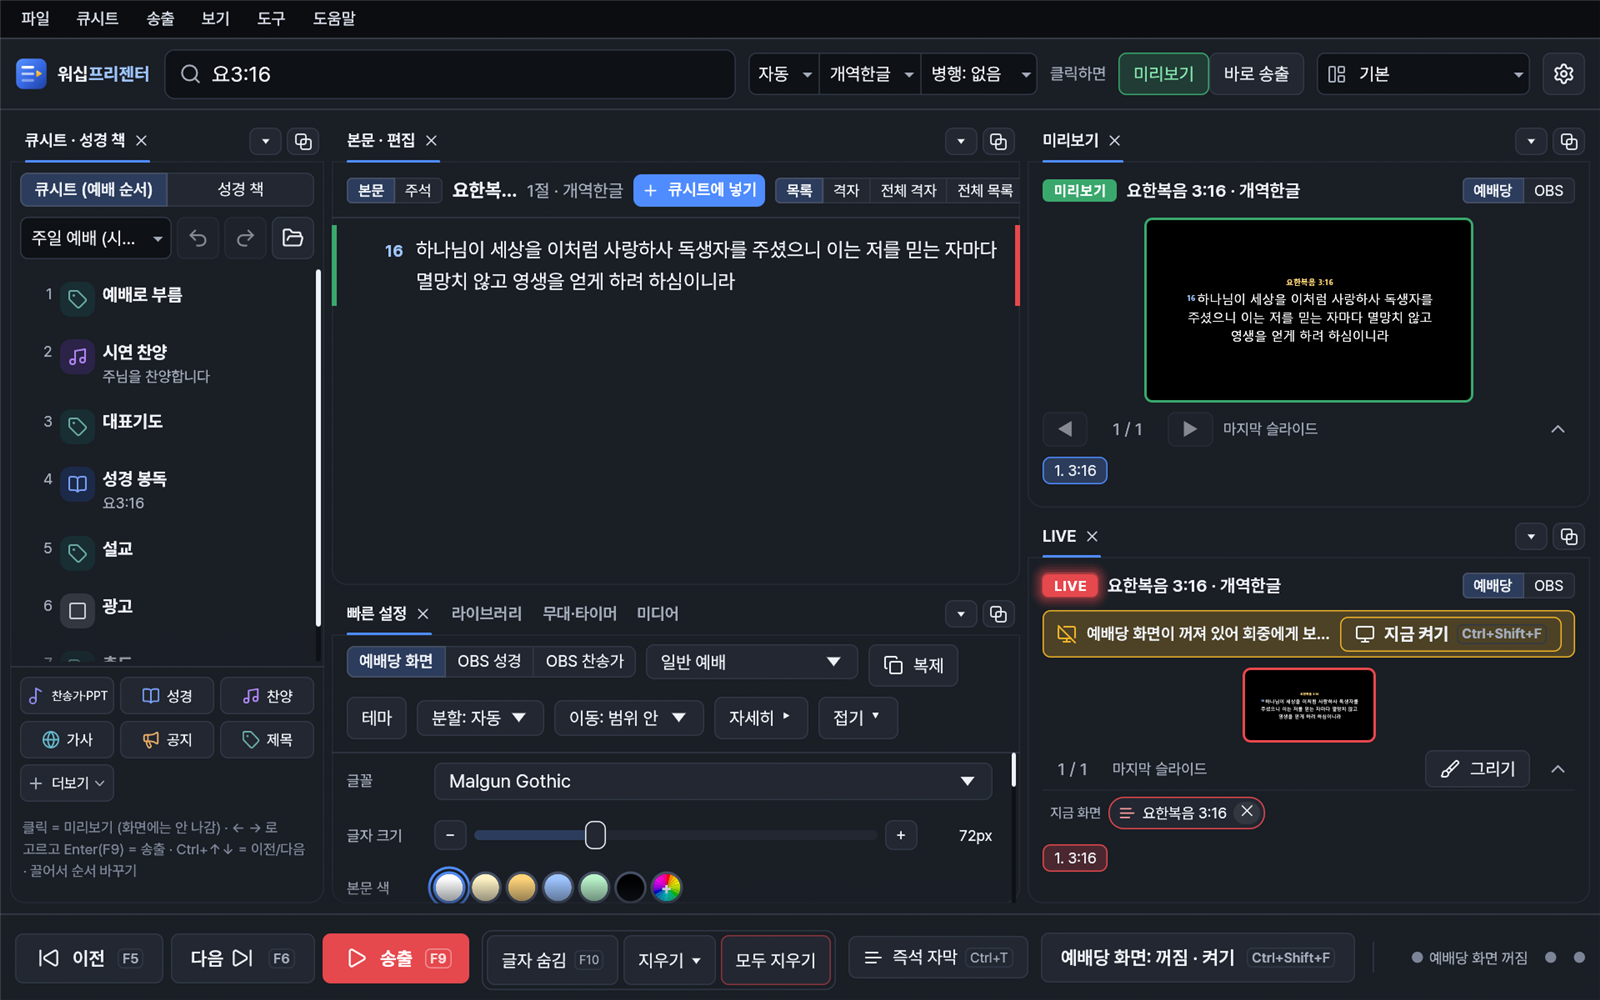
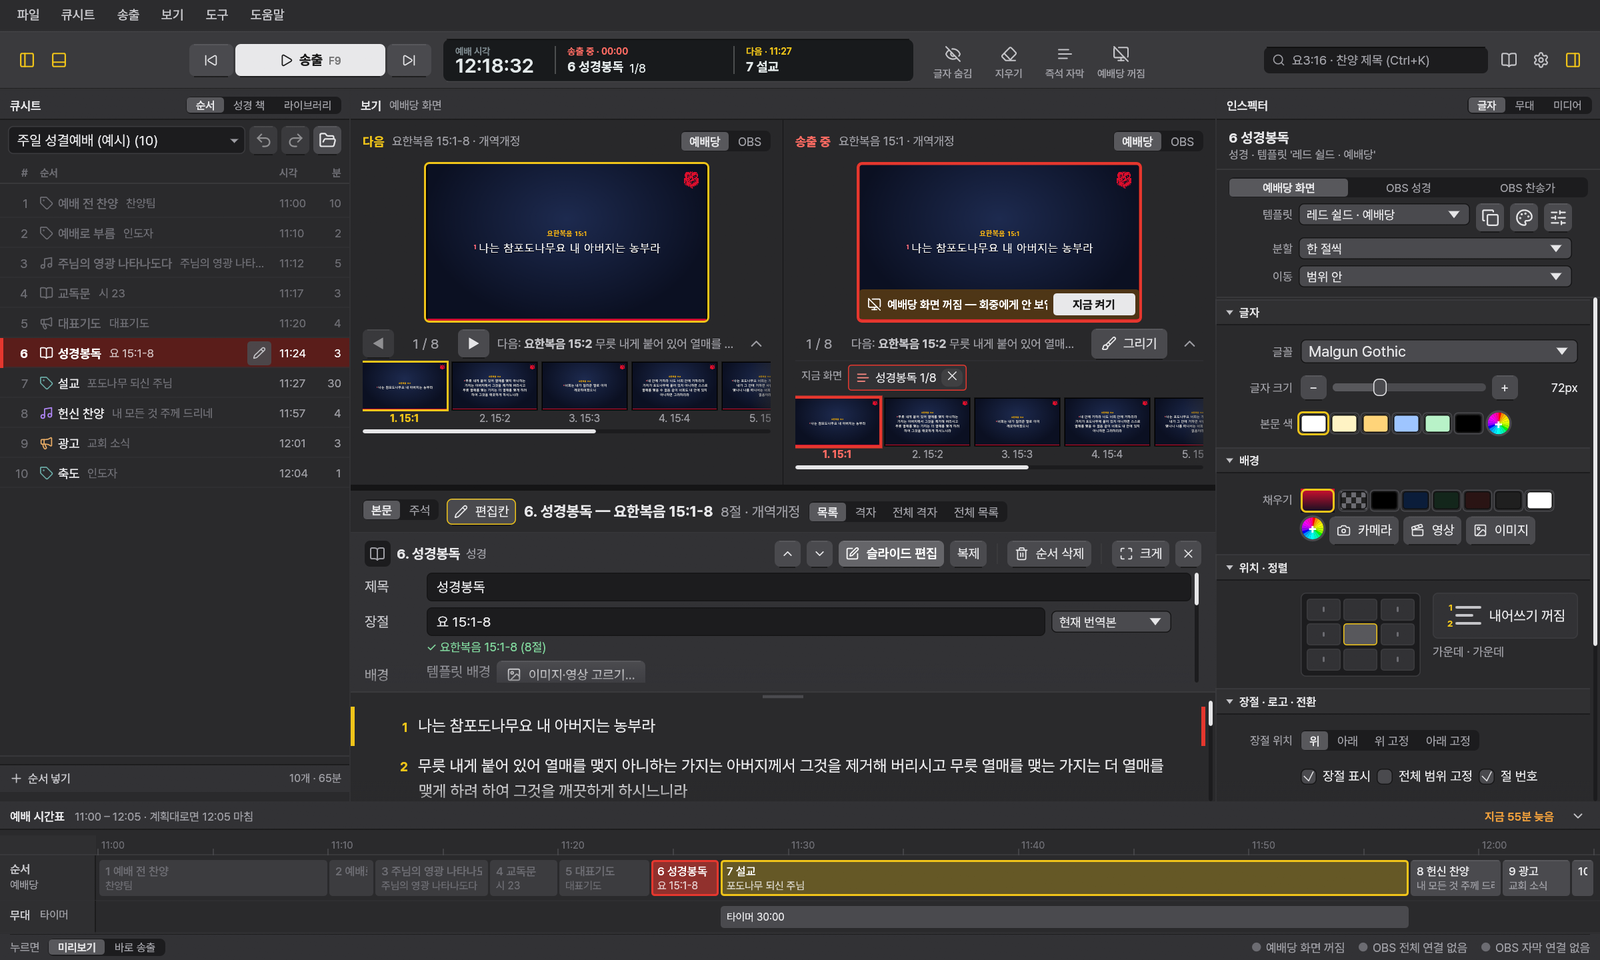
2.0.8 새 조작 화면: README 대표 그림 · 설명서 주 화면·컨트롤 막대 그림과 화면 구성·배치 설명
- readme-main.png · manual-main.png 를 2.0.8 화면(예시 큐시트)으로, manual-send-bar.png 는 위 컨트롤 막대로
- README '2.x에서 달라진 점' 맨 위에 2.0.8 화면 변경 안내, 빠른 설정 → 인스펙터, 작업공간 → 판 접기·펴기
- 설명서 2장 화면 구성 표 · 4-1 · 6장(화면 배치) · 7-1 을 새 자리로
- 아직 옛 모양 그림: 설정·템플릿·테마·단축키 창(색만 다름) · manual-quick-duplicate · 영어 README

diff --git a/docs/사용자설명서.md b/docs/사용자설명서.md
@@ -13,7 +13,7 @@
 3. [예배 준비: 큐시트 만들기](#3-예배-준비-큐시트-만들기)
 4. [예배 진행: 송출](#4-예배-진행-송출)
 5. [성경 검색과 슬라이드 나누기](#5-성경-검색과-슬라이드-나누기)
-6. [화면 배치와 작업공간](#6-화면-배치와-작업공간)
+6. [화면 배치 (판 접기·펴기)](#6-화면-배치-판-접기펴기)
 7. [출력 디자인: 템플릿과 테마](#7-출력-디자인-템플릿과-테마)
 8. [설정 센터와 단축키](#8-설정-센터와-단축키)
 9. [자료, 백업, 업데이트](#9-자료-백업-업데이트)
@@ -43,20 +43,19 @@
 
 ## 2. 화면 구성과 메뉴
 
-![조작 화면 전체: 왼쪽 큐시트, 가운데 본문과 빠른 설정, 오른쪽 미리보기와 LIVE](images/v2/manual-main.png)
+![조작 화면 전체 (2.0.8): 위 컨트롤 막대, 왼쪽 큐시트 표, 가운데 다음·송출 중 두 화면과 본문, 오른쪽 인스펙터, 아래 예배 시간표](images/v2/manual-main.png)
 
 | 위치 | 내용 |
 |---|---|
 | 맨 위 | 메뉴 줄: 파일 · 큐시트 · 송출 · 보기 · 도구 · 도움말 |
-| 위쪽 줄 | 검색창(Ctrl+K), 검색 방식(자동), 번역본, 병행 번역본, **클릭하면 [미리보기 / 바로 송출]**, 작업공간 선택, 설정(톱니바퀴) |
-| 왼쪽 | **큐시트 (예배 순서)** / **성경 책** 탭. 아래에 순서 넣기 단추(찬송가·PPT, 성경, 찬양, 가사, 공지, 제목, 더보기) |
-| 가운데 위 | **본문 · 편집**: 찾은 성경 본문이나 고른 순서의 슬라이드. 목록·격자·전체 격자·전체 목록으로 볼 수 있습니다 |
-| 가운데 아래 | **빠른 설정 · 라이브러리 · 무대·타이머 · 미디어** 탭 |
-| 오른쪽 위 | **미리보기** (초록 테두리): 송출하면 이렇게 나갑니다 |
-| 오른쪽 아래 | **LIVE** (빨간 테두리): 지금 실제로 나가는 화면. 예배당 화면이 꺼져 있으면 노란 안내와 [지금 켜기] 단추가 보입니다 |
-| 맨 아래 | 송출 줄: 이전(F5) · 다음(F6) · 송출(F9) · 글자 숨김(F10) · 지우기 ▾ · 모두 지우기 · 즉석 자막(Ctrl+T) · 예배당 화면: 꺼짐·켜기(Ctrl+Shift+F) · 출력 상태 |
+| 위쪽 막대 | 왼쪽 큐시트 판·시간표 접기 단추 · **[이전(F5) \| 송출(F9) \| 다음(F6)]** · **상태 표시창**(예배 시각 · 송출 중 순서와 경과 · 다음 순서와 예정 시각) · 글자 숨김(F10) · 지우기 ▾(배경 지우기 · 로고 화면 · 모두 지우기) · 즉석 자막(Ctrl+T) · 예배당 화면 켜기·끄기(Ctrl+Shift+F) · 검색창(Ctrl+K) · 검색 방식·번역본·병행 번역(책 아이콘) · 설정(톱니바퀴) · 인스펙터 접기 단추 |
+| 왼쪽 | **큐시트** 판: [순서 \| 성경 책 \| 라이브러리]. 순서는 표(# · 순서 · 시각 · 분)로 보이고, 아래 **+ 순서 넣기** 를 누르면 넣을 종류(찬송가·PPT, 성경, 찬양, 가사, 공지, 제목, 이미지, 영상, 유튜브, PDF, 음악, 슬라이드쇼, 카메라, 빈 화면 …)가 펼쳐집니다 |
+| 가운데 위 | **다음**(노란 테두리, 미리보기): 송출하면 이렇게 나갑니다 · **송출 중**(빨간 테두리): 지금 실제로 나가는 화면. 각 화면 아래 슬라이드 줄. 예배당 화면이 꺼져 있으면 화면 아래에 [지금 켜기] 띠가 보입니다 |
+| 가운데 아래 | **본문 · 편집**: 찾은 성경 본문이나 고른 순서의 슬라이드와 편집칸. 목록·격자·전체 격자·전체 목록. 위 화면과의 경계를 끌어 높이를 바꿉니다 |
+| 오른쪽 | **인스펙터**: [글자 \| 무대 \| 미디어]. 글자 = 예전 빠른 설정(출력 · 템플릿 · 분할 · 이동 · 글꼴 · 배경 …) |
+| 아래 | **예배 시간표**(큐시트 시작 시각과 순서 길이가 있으면 시간 막대 · 지금 시각 선 · 늦음/빠름 · 무대 타이머) · 맨 아래 상태 줄(알림 · 누르면 [미리보기 \| 바로 송출] · 출력 연결 상태) |
 
-미리보기와 LIVE 오른쪽 위의 **예배당 / OBS** 단추로 각 출력에 나가는 모양을 따로 확인할 수 있습니다.
+두 화면 오른쪽 위의 **예배당 / OBS** 단추로 각 출력에 나가는 모양을 따로 확인할 수 있습니다.
 
 ### 2-1. 메뉴 한눈에
 
@@ -140,9 +139,9 @@
 
 ### 4-1. 기본 송출
 
-![송출 줄](images/v2/manual-send-bar.png)
+![위 컨트롤 막대](images/v2/manual-send-bar.png)
 
-1. 위쪽 줄의 **클릭하면** 단추로 순서를 눌렀을 때의 동작을 고릅니다.
+1. 맨 아래 상태 줄의 **누르면 [미리보기 | 바로 송출]** 으로 순서를 눌렀을 때의 동작을 고릅니다.
    - **미리보기**(기본): 눌러도 화면에는 안 나가고 미리보기에만 올라갑니다. ← →로 고르고 Enter(F9)로 송출합니다.
    - **바로 송출**: 누르면 바로 회중 화면에 나갑니다. 켜져 있는 동안 화면 위에 노란 안내 줄이 보입니다.
 2. 송출 중에는 **다음(F6)**, **이전(F5)**으로 슬라이드를 넘깁니다. 순서를 건너뛸 때는 Ctrl+↓ / Ctrl+↑입니다.
@@ -228,10 +227,11 @@
 
 ---
 
-## 6. 화면 배치와 작업공간
+## 6. 화면 배치 (판 접기·펴기)
 
-- 패널 탭을 끌어 다른 자리로 옮기거나, 패널 오른쪽 위 단추로 따로 띄울 수 있습니다.
-- 위쪽 줄 오른쪽의 작업공간 선택칸(기본)으로 저장해 둔 배치를 바꿉니다. 저장과 관리는 `보기 → 작업공간 · 패널 배치`입니다.
+- 2.0.8 부터 화면은 고정 칸입니다: 왼쪽 큐시트 판 · 가운데 두 화면과 본문 · 오른쪽 인스펙터 · 아래 예배 시간표.
+- 위 막대 왼쪽 끝 단추로 큐시트 판과 시간표를, 오른쪽 끝 단추로 인스펙터를 접고 폅니다. `보기 → 배치 (판 보이기·숨기기)` 에서도 됩니다. 판 사이 경계를 끌어 너비·높이를 바꿉니다.
+- 예전의 끌어서 패널을 옮기던 작업공간은 없어졌습니다(저장해 둔 옛 배치는 지우지 않고 남겨 둡니다).
 - 조작 화면의 색(다크·라이트), 글자 크기, 언어는 `설정 → 조작 화면`에서 바꿉니다. 이것은 회중에게 나가는 화면과 상관없습니다.
 
 ---
@@ -244,7 +244,7 @@
 
 ![빠른 설정 줄의 템플릿 선택과 복제 단추](images/v2/manual-quick-duplicate.png)
 
-가운데 아래 **빠른 설정** 탭에서 자주 고치는 것을 바로 바꿉니다.
+오른쪽 **인스펙터 → 글자** 탭(예전 빠른 설정)에서 자주 고치는 것을 바로 바꿉니다.
 
 1. 맨 앞에서 고칠 출력을 고릅니다: **예배당 화면 · OBS 성경 · OBS 찬송가**.
 2. 옆의 선택칸에서 그 출력에 쓸 템플릿을 고릅니다.
@@ -258,7 +258,7 @@
 
 ![출력 템플릿 편집 창](images/v2/manual-templates.png)
 
-`보기 → 출력 템플릿 편집` 또는 빠른 설정의 **자세히 ▸**로 엽니다.
+`보기 → 출력 템플릿 편집` 또는 인스펙터의 **자세히** 아이콘으로 엽니다.
 
 - 왼쪽: 템플릿 목록. 각 템플릿을 어디에 쓰는지 표시가 붙습니다(예배당, OBS 자막, OBS 찬송가·찬양). 아래에 **[새 템플릿] [복제] [삭제]**가 있습니다. 출력에서 쓰고 있는 템플릿은 지울 수 없습니다.
 - 가운데: 견본 화면. **성경 · 찬양 · 공지 · 제목** 견본 글을 바꿔 가며 봅니다. 화면에서 장절·본문·로고를 누르면 오른쪽에 그 설정이 열리고, 점선 테두리를 끌면 여백이, 로고를 끌면 자리가 바뀝니다. [안내선]은 화면 끝 5% 안전 영역을 보여 줍니다.

diff --git a/README.md b/README.md
@@ -16,7 +16,7 @@
 
 ![워십프리젠터 조작 화면](docs/images/v2/readme-main.png)
 
-<sub>왼쪽: 큐시트(예배 순서) · 가운데: 고른 순서의 편집칸과 본문 · 오른쪽 위: 미리보기(초록) · 오른쪽 아래: LIVE(빨강, 지금 송출 중) · 아래: 송출 단추 줄. 화면의 큐시트는 예시입니다.</sub>
+<sub>2.0.8 새 화면. 위: 컨트롤 막대([이전 | 송출 F9 | 다음] · 상태 표시창: 예배 시각 · 송출 중 · 다음 · 글자 숨김 · 지우기 · 즉석 자막 · 예배당 화면 · 찾기) · 왼쪽: 큐시트 표 · 가운데: 다음(노랑) / 송출 중(빨강) 두 화면과 본문·편집 · 오른쪽: 인스펙터(글자·무대·미디어) · 아래: 예배 시간표. 화면의 큐시트는 예시입니다.</sub>
 
 ## 목차
 
@@ -34,6 +34,8 @@
 - [개발](#개발)
 
 ## 2.x에서 달라진 점
+
+**2.0.8 — 조작 화면 모양이 크게 바뀌었습니다.** 어두운 회색 바탕에 위 컨트롤 막대 · 왼쪽 큐시트 표 · 가운데 두 화면(다음 · 송출 중) · 오른쪽 인스펙터 · 아래 예배 시간표로 정리했습니다. 빨강은 송출 중, 노랑은 다음에만 씁니다. 끌어서 패널을 옮기던 작업공간은 고정 칸(접기/펴기)으로 바뀌었고, 기능과 단축키는 그대로입니다. 자리를 옮긴 조작은 [릴리스 설명](https://github.com/hahadark/WorshipPresenter/releases/tag/v2.0.8)에 있습니다. 예전 색이 좋으면 `설정 → 조작 화면 → 테마`에서 **어둡게** 를 고르세요.
 
 2.0부터 조작 화면을 Rust로 새로 만들었습니다. 예배당 화면과 OBS 화면은 1.x와 같은 웹 화면을 그대로 씁니다.
 
@@ -141,8 +143,8 @@
 
 ![출력 템플릿 편집](docs/images/v2/readme-templates.png)
 
-- **보기 → 출력 템플릿 편집**(또는 빠른 설정의 **자세히 ▸**)에서 배경(단색·그라데이션·그림·영상·투명), 글꼴·크기·색·줄 간격, 위치와 여백, 장절·번역본·절 번호, 로고, 효과를 고칩니다. 가운데 그림에서 글 영역·로고를 직접 끌어 옮길 수 있습니다.
-- **템플릿 복제 (2.0.2)**: 아래 **빠른 설정** 줄의 템플릿 옆 **[복제]**를 누르면 지금 템플릿의 복사본을 만들어 그 출력(예배당 화면 · OBS 성경 · OBS 찬송가)에 바로 겁니다. 원래 템플릿은 그대로 남으니, 복사본만 마음 놓고 고치면 됩니다.
+- **보기 → 출력 템플릿 편집**(또는 오른쪽 인스펙터의 **자세히** 아이콘)에서 배경(단색·그라데이션·그림·영상·투명), 글꼴·크기·색·줄 간격, 위치와 여백, 장절·번역본·절 번호, 로고, 효과를 고칩니다. 가운데 그림에서 글 영역·로고를 직접 끌어 옮길 수 있습니다.
+- **템플릿 복제 (2.0.2)**: 오른쪽 **인스펙터 → 글자** 탭의 템플릿 옆 **복제** 아이콘을 누르면 지금 템플릿의 복사본을 만들어 그 출력(예배당 화면 · OBS 성경 · OBS 찬송가)에 바로 겁니다. 원래 템플릿은 그대로 남으니, 복사본만 마음 놓고 고치면 됩니다.
 
 ### 그 밖의 기능
 
@@ -154,7 +156,7 @@
 - **큐시트 인쇄**: 가사·공지 글, 성경 본문, 메모, 코드, 큰 글씨, 두 단을 골라 인쇄.
 - **홈페이지 주보 → 큐시트·광고**, **설교 포인트 슬라이드**(AI 사용), **예배 전 화면 만들기**.
 - **스트림덱·외부 단추**, **Companion·장비(X32·PTZ)**, **OBS 원격 조작**, **내부망 출력**(다른 PC의 OBS).
-- **여러 PC 동기화·백업**, **작업공간·패널 배치**, 화면 언어 한국어·English.
+- **여러 PC 동기화·백업**, **판 접기·펴기(배치)**, 화면 언어 한국어·English.
 
 각 기능의 자세한 사용법은 [사용자 설명서](docs/사용자설명서.md)를 보세요.
 
@@ -165,7 +167,7 @@
 | 파일 | 주보로 큐시트 만들기 (AI) · 성경 번역본 가져오기 · 사용 기록(저작권 보고) · 여러 PC 동기화·백업 · 설정(Ctrl+,) |
 | 큐시트 | 슬라이드 편집(Ctrl+E) · 큐시트 관리(휴지통·복제·내보내기) · 실행 취소(Ctrl+Z) · 다시 실행(Ctrl+Y) · 큐시트 인쇄(Ctrl+P) |
 | 송출 | 송출 기록(Ctrl+H) · 즉석 자막(Ctrl+T) · 회중 메시지(Ctrl+M) · 오버레이 · 무대 화면 · 매크로·예약 실행(Alt+1~9) · 화면에 그리기·강조 |
-| 보기 | 작업공간·패널 배치 · 주석 보기·가져오기 · 출력 템플릿 편집 · 출력 테마 관리 · Language·언어 · OBS 자막 보기 방식 · 출력 설정(예배당 화면·모니터·OBS 숨김) |
+| 보기 | 배치(판 보이기·숨기기) · 주석 보기·가져오기 · 출력 템플릿 편집 · 출력 테마 관리 · Language·언어 · OBS 자막 보기 방식 · 출력 설정(예배당 화면·모니터·OBS 숨김) |
 | 도구 | 찬양 라이브러리 · 그림·음악·영상 라이브러리 · 카메라 설정 · 휴대폰 리모컨 · 스트림덱·외부 단추 · Companion·장비 · 내부망 출력 · OBS 원격 조작 · 주보 → 큐시트 (AI) · 홈페이지 주보 → 큐시트·광고 · 설교 포인트 슬라이드 · 예배 전 화면 만들기 |
 | 도움말 | 연결 점검 · 로그 묶음 저장 · 로그 폴더 열기 · 사용 설명서 · 그림으로 보는 사용법 · OBS 연결 안내 · 단축키 보기 · 새 소식 · 문제 알리기·건의 · 정보·라이선스 · 새 버전 확인 · 1.x 자료 다시 가져오기 |
 
